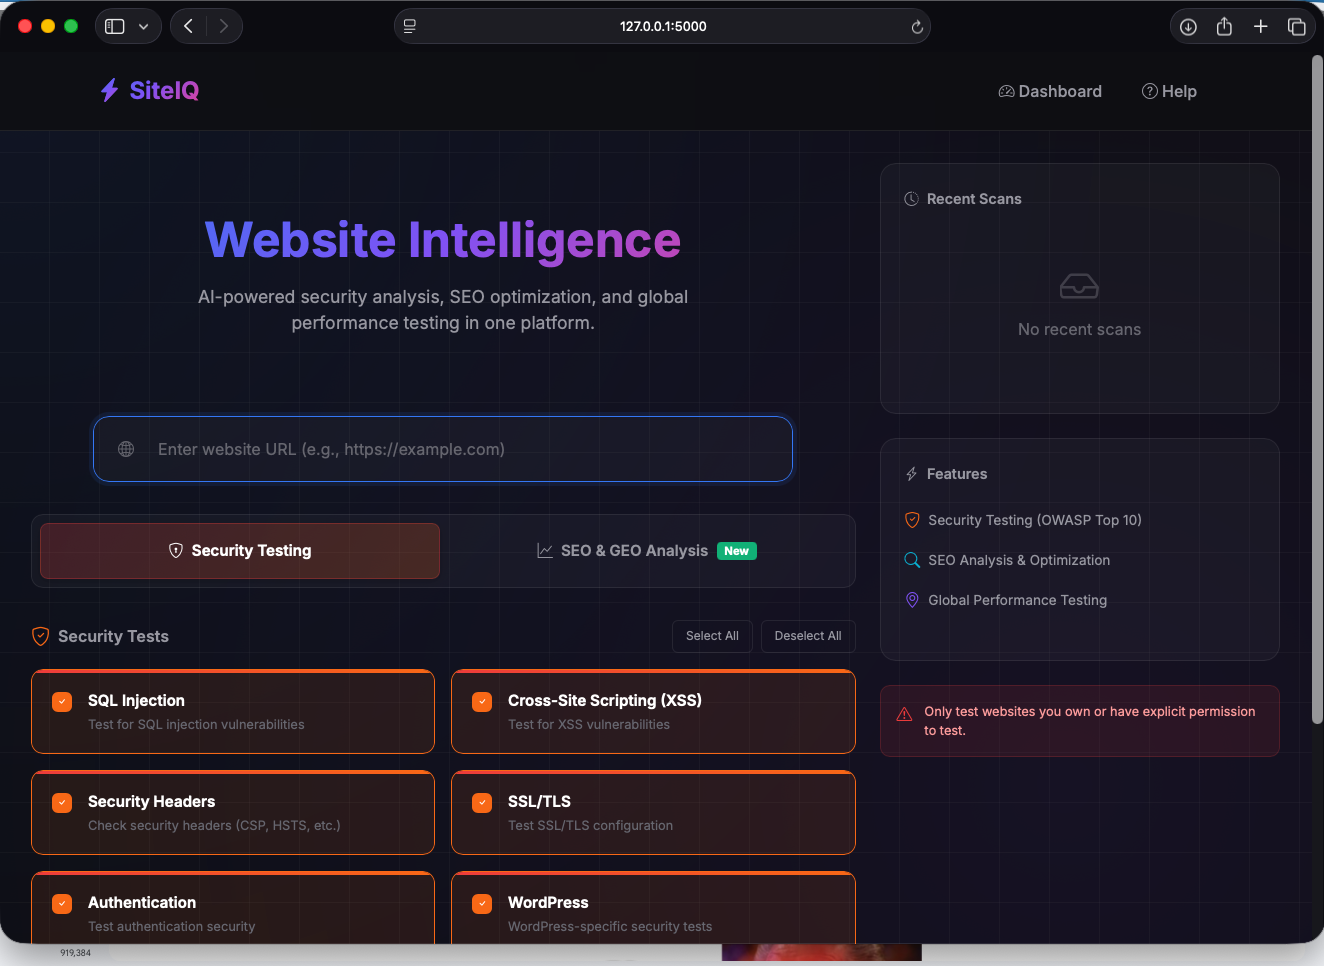
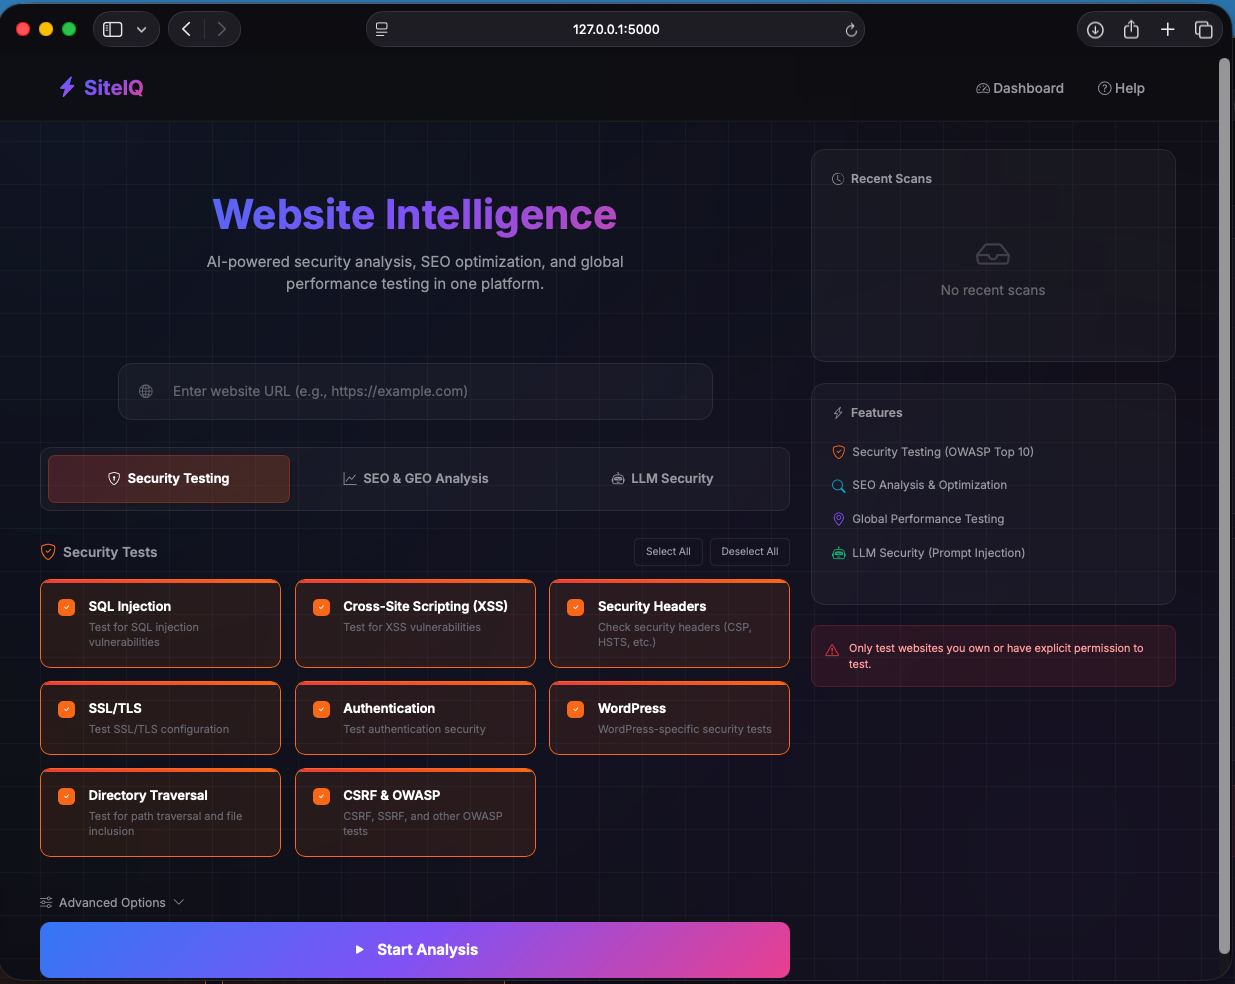
updated docs to include LLM testing

diff --git a/README.md b/README.md
@@ -6,11 +6,13 @@ A comprehensive website analysis and security testing platform featuring securit
 
 ![Dashboard](screenshots/1.png)
 
-![Scan Results](screenshots/2.png)
+![SEO Tests](screenshots/2.png)
 
-![Scan Results](screenshots/3.png)
+![LLM Tests](screenshots/3.png)
 
-![Help Page](screenshots/4.png)
+![Scan Results](screenshots/4.png)
+
+![Help Page](screenshots/5.png)
 
 ## Features
 
